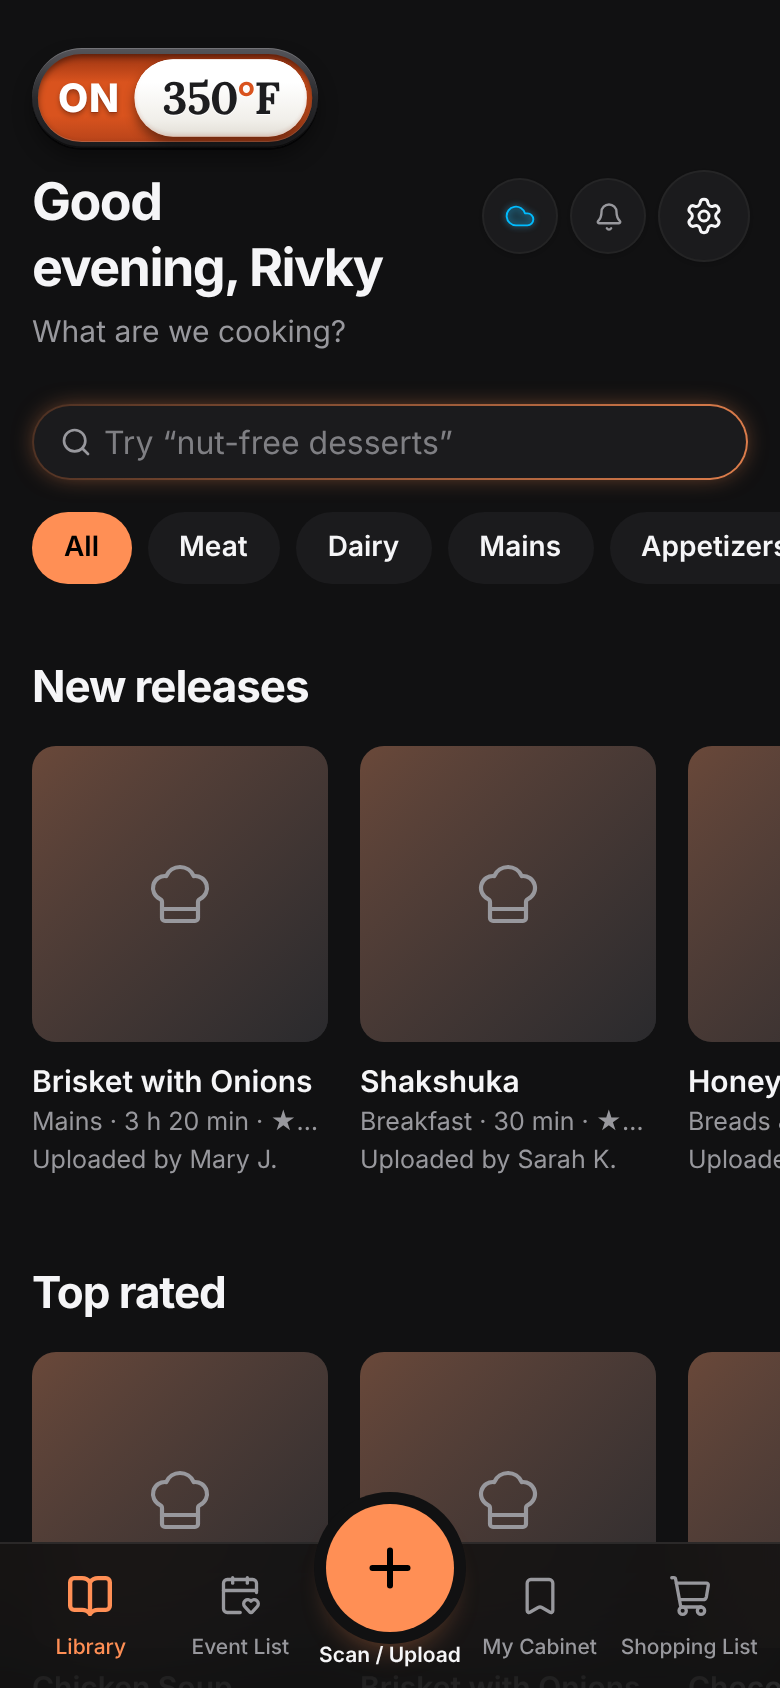
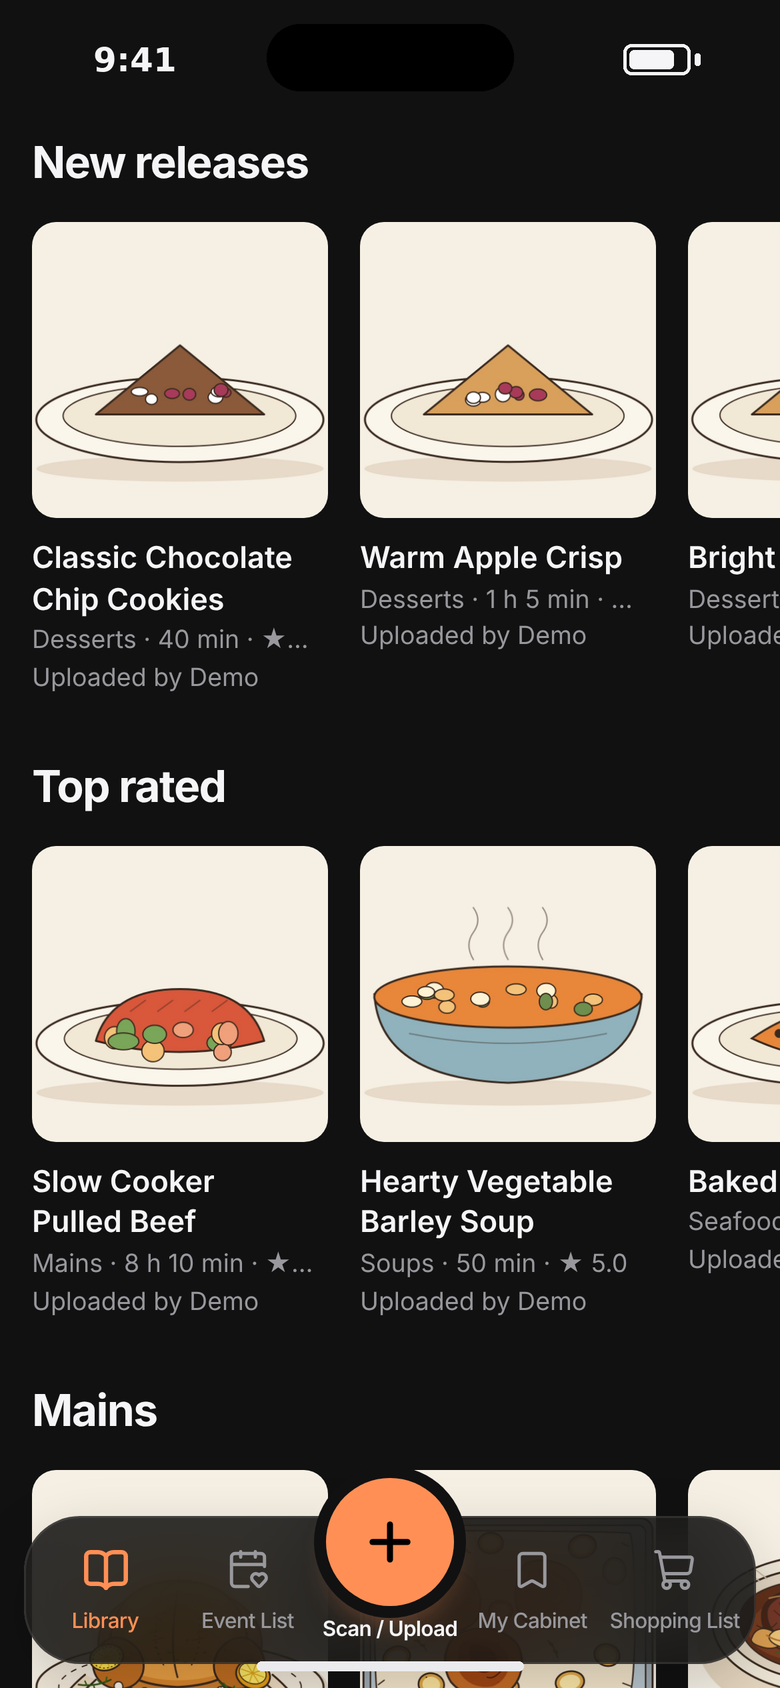
Website: scale to any size, and the app picture shows the current app
Claude-Session: https://claude.ai/code/session_01ADXpCTEnMXBBp4mHBc7Y2V

diff --git a/on350-landing/site/index.html b/on350-landing/site/index.html
@@ -56,7 +56,7 @@
     <div class="hero-copy">
       <p class="eyebrow">Family recipes, scanned, scaled and saved</p>
       <h1>Every family recipe, preheated and ready.</h1>
-      <p class="lede">Scan the handwritten cards, keep them in your private cabinet, scale any dish from half to triple, and turn a week of dinners into one shopping list.</p>
+      <p class="lede">Scan the handwritten cards, keep them in your private cabinet, scale any dish to any size, and turn a week of dinners into one shopping list.</p>
       <div class="cta-row">
         <a class="btn btn-accent btn-lg" href="https://app.on350.com/">
           <svg width="20" height="20" viewBox="0 0 24 24" fill="none" stroke="currentColor" stroke-width="2.4" stroke-linecap="round" aria-hidden="true"><path d="M12 5v14M5 12h14"/></svg>
@@ -66,13 +66,13 @@
       </div>
       <ul class="chips" aria-label="Highlights">
         <li><svg viewBox="0 0 24 24" aria-hidden="true"><path d="M3 7V5a2 2 0 0 1 2-2h2M17 3h2a2 2 0 0 1 2 2v2M21 17v2a2 2 0 0 1-2 2h-2M7 21H5a2 2 0 0 1-2-2v-2M7 12h10"/></svg>Scan any card</li>
-        <li><svg viewBox="0 0 24 24" aria-hidden="true"><path d="M4 20h16M7 16V9M12 16V5M17 16v-4"/></svg>Scale 0.5× to 3×</li>
+        <li><svg viewBox="0 0 24 24" aria-hidden="true"><path d="M4 20h16M7 16V9M12 16V5M17 16v-4"/></svg>Scale to any size</li>
         <li><svg viewBox="0 0 24 24" aria-hidden="true"><circle cx="8" cy="21" r="1"/><circle cx="19" cy="21" r="1"/><path d="M2.05 2.05h2l2.66 12.42a2 2 0 0 0 2 1.58h9.78a2 2 0 0 0 1.95-1.57l1.65-7.43H5.12"/></svg>One shopping list</li>
         <li><svg viewBox="0 0 24 24" aria-hidden="true"><path d="M12 3v12M7 10l5 5 5-5M5 21h14"/></svg>Saved offline</li>
       </ul>
     </div>
     <div class="hero-phone">
-      <div class="phone"><img src="/img/app-library.png" alt="The On350 library on a phone: a search box, Meat and Dairy filters and shelves of recipes" width="390" height="844"></div>
+      <div class="phone"><img src="/img/app-library.png" alt="The On350 library on a phone: shelves of new, top-rated and main-course recipes, with the bottom bar for the library, events, scanning, the cabinet and the shopping list" width="390" height="844"></div>
     </div>
   </section>
 
@@ -94,7 +94,7 @@
         <li>
           <span class="step-num">3</span>
           <h3>Cook, scale and shop</h3>
-          <p>Make half or triple, add dishes to an event, and get one shopping list sorted by aisle.</p>
+          <p>Make any amount, add dishes to an event, and get one shopping list sorted by aisle.</p>
         </li>
       </ol>
     </div>
